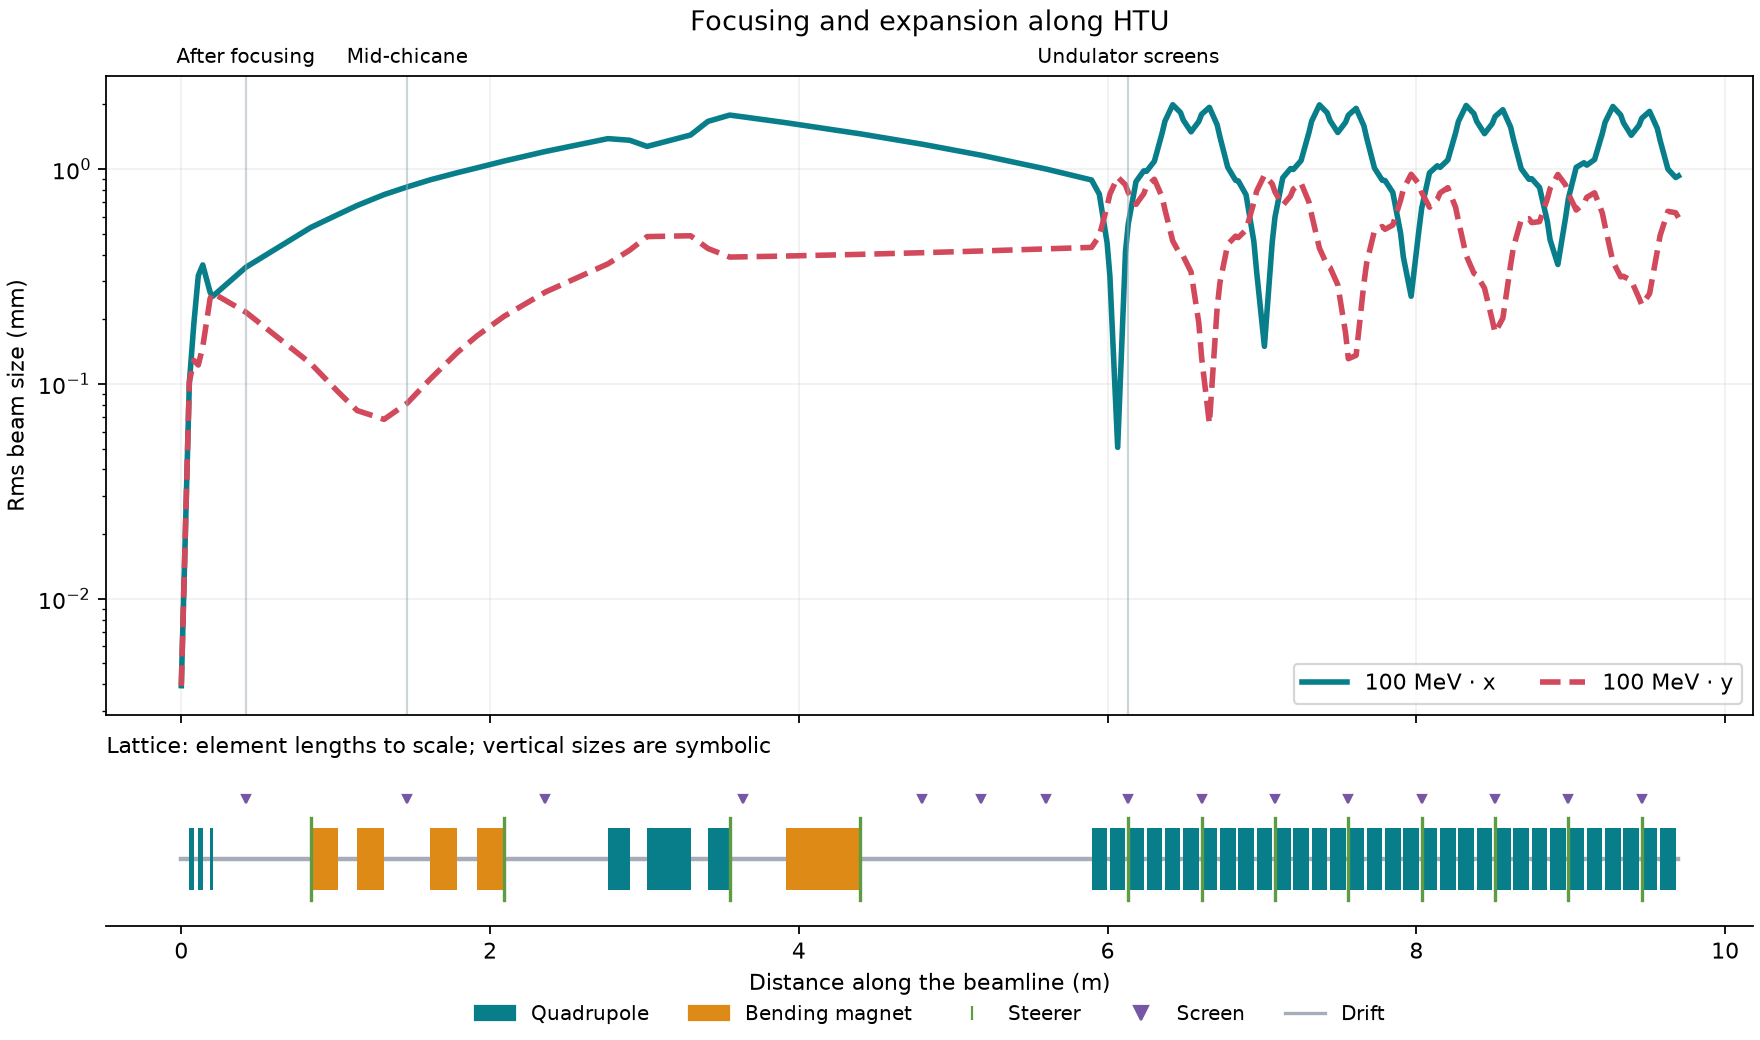
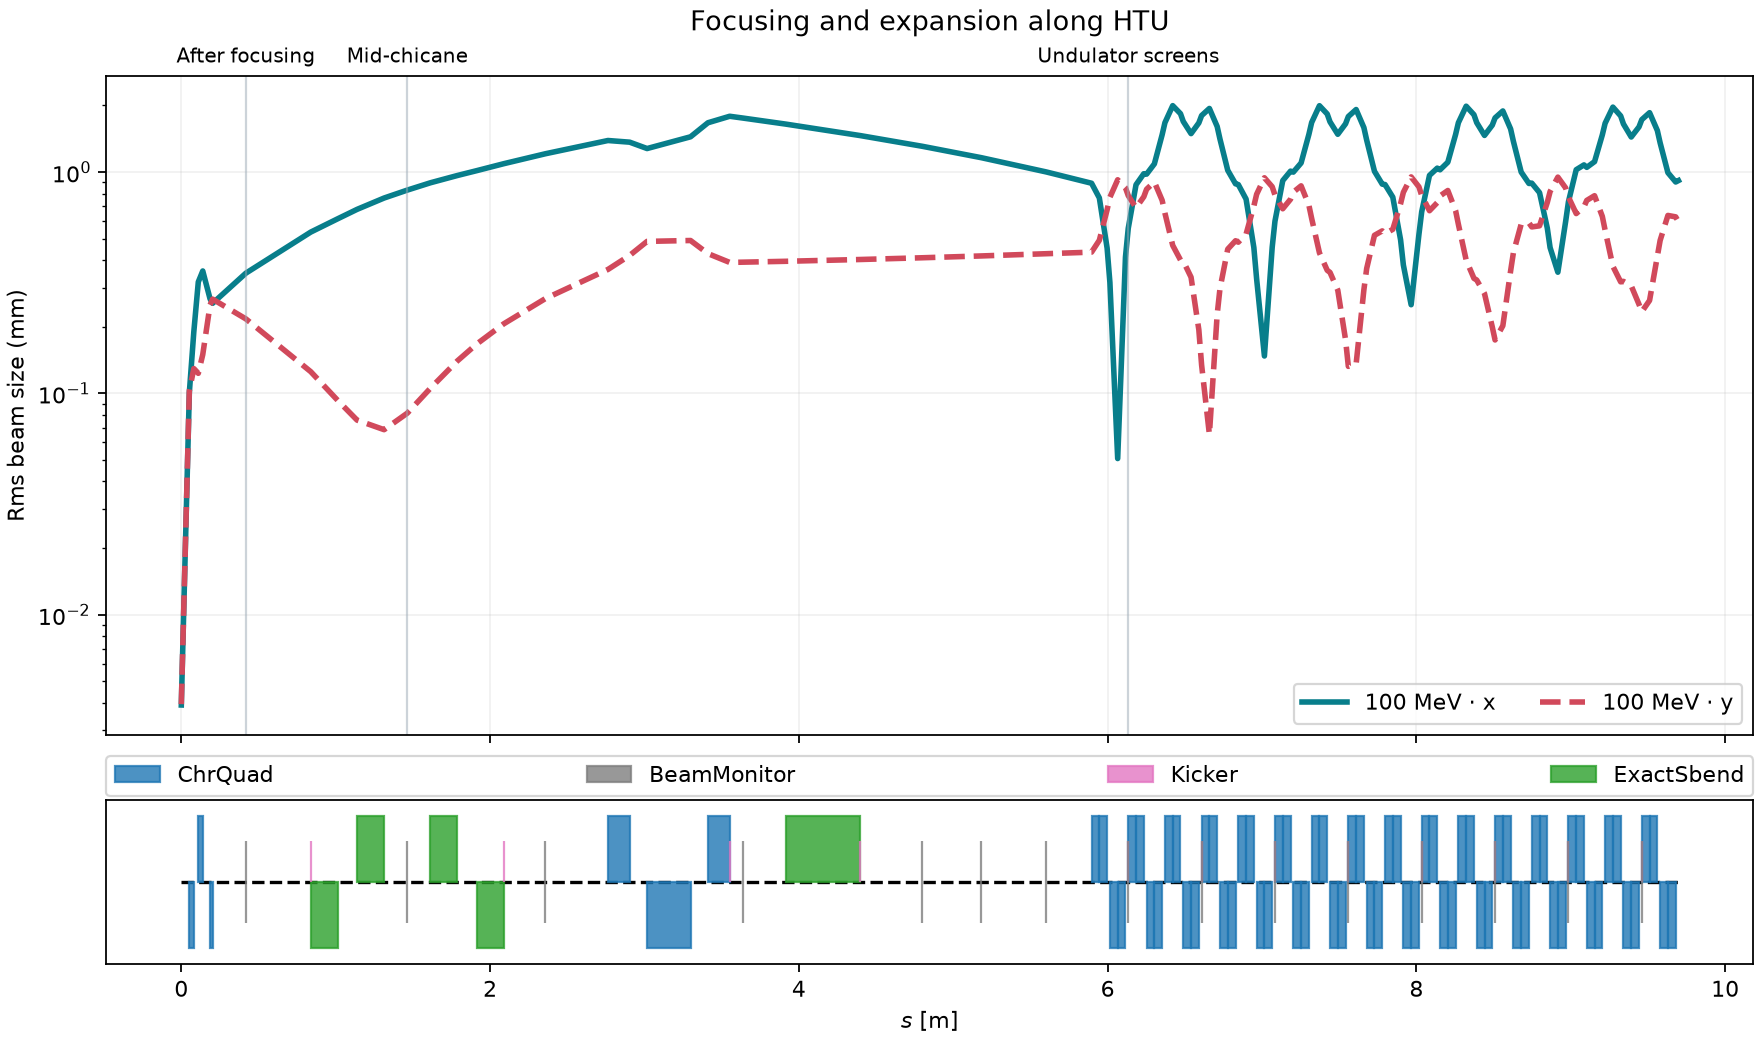
Use ImpactX plot_survey for the HTU beamline plot

diff --git a/episodes/files/beam-transport/impactx_helpers.py b/episodes/files/beam-transport/impactx_helpers.py
@@ -9,7 +9,8 @@ from pathlib import Path
 import matplotlib.pyplot as plt
 import numpy as np
 import openpmd_api as io
-from scipy.constants import e
+from scipy.constants import c, e, m_e
+from impactx import RefPart, elements
 
 from htu_lattice import get_lattice
 
@@ -130,50 +131,17 @@ def beam_explorer(run):
         'srcdoc="'+html.escape(document, quote=True)+'"'])
 
 
-def lattice_layout():
-    """Use the tracking lattice's element lengths, including zero-length screens."""
-    layout = []
-    position = 0.
-    for element in get_lattice("impactx"):
-        length = float(element.ds)
-        layout.append(dict(name=element.name, kind=type(element).__name__,
-                           start=position, length=length))
-        position += length
-    return layout
-
-
-def plot_lattice(ax):
-    """Draw a longitudinal schematic, not the bent orbit or physical apertures."""
-    from matplotlib.patches import Patch, Rectangle
-    from matplotlib.lines import Line2D
-
-    layout = lattice_layout()
-    end = layout[-1]['start'] + layout[-1]['length']
-    colors = {'ChrQuad': '#087e8b', 'ExactSbend': '#dd8b16',
-              'Kicker': '#5d9c43', 'BeamMonitor': '#7656a5'}
-    ax.plot([0, end], [0, 0], color='#a5adb8', lw=2, zorder=0)
-    for element in layout:
-        kind, start, length = element['kind'], element['start'], element['length']
-        if kind in ('ChrQuad', 'ExactSbend'):
-            ax.add_patch(Rectangle((start, -.3), length, .6,
-                                  facecolor=colors[kind], edgecolor='none'))
-        elif kind == 'Kicker':
-            ax.plot([start, start], [-.4, .4], color=colors[kind], lw=1.5)
-        elif kind == 'BeamMonitor':
-            ax.plot(start, .58, marker='v', color=colors[kind], ms=4)
-        elif kind != 'ExactDrift':
-            raise ValueError(f'Add a lattice symbol for {kind}.')
-    handles = [Patch(color=colors['ChrQuad'], label='Quadrupole'),
-               Patch(color=colors['ExactSbend'], label='Bending magnet'),
-               Line2D([], [], color=colors['Kicker'], marker='|', ls='', label='Steerer'),
-               Line2D([], [], color=colors['BeamMonitor'], marker='v', ls='', label='Screen'),
-               Line2D([], [], color='#a5adb8', label='Drift')]
-    ax.legend(handles=handles, loc='upper center', bbox_to_anchor=(.5, -.38),
-              ncol=5, frameon=False, fontsize=9)
-    ax.set(ylim=(-.65, .9), yticks=[], xlabel='Distance along the beamline (m)')
-    ax.set_title('Lattice: element lengths to scale; vertical sizes are symbolic',
-                 fontsize=10, loc='left')
-    ax.spines[['top', 'right', 'left']].set_visible(False)
+def plot_lattice(ax, total_energy_MeV):
+    """Draw the HTU lattice with ImpactX's survey and an electron reference."""
+    mass_MeV = m_e * c**2 / e / 1e6
+    ref = RefPart()
+    ref.set_charge_qe(-1.0).set_mass_MeV(mass_MeV).set_kin_energy_MeV(
+        total_energy_MeV - mass_MeV
+    )
+    lattice = elements.KnownElementsList()
+    lattice.extend(get_lattice("impactx"))
+    lattice.plot_survey(ref=ref, ax=ax)
+    ax.set_box_aspect(None)  # Keep the survey aligned with the shared beam-size axis.
 
 
 def plot_beam_sizes(run):
@@ -181,7 +149,7 @@ def plot_beam_sizes(run):
     fig, (ax, lattice_ax) = plt.subplots(2, 1, figsize=(11, 6.5), sharex=True,
         gridspec_kw={'height_ratios': [4, 1]}, constrained_layout=True)
     records = measurements(run)
-    plot_lattice(lattice_ax)
+    plot_lattice(lattice_ax, records[0]["total_energy_MeV"])
     summaries = {}
     for i, record in enumerate(records):
         energy = record['total_energy_MeV']
